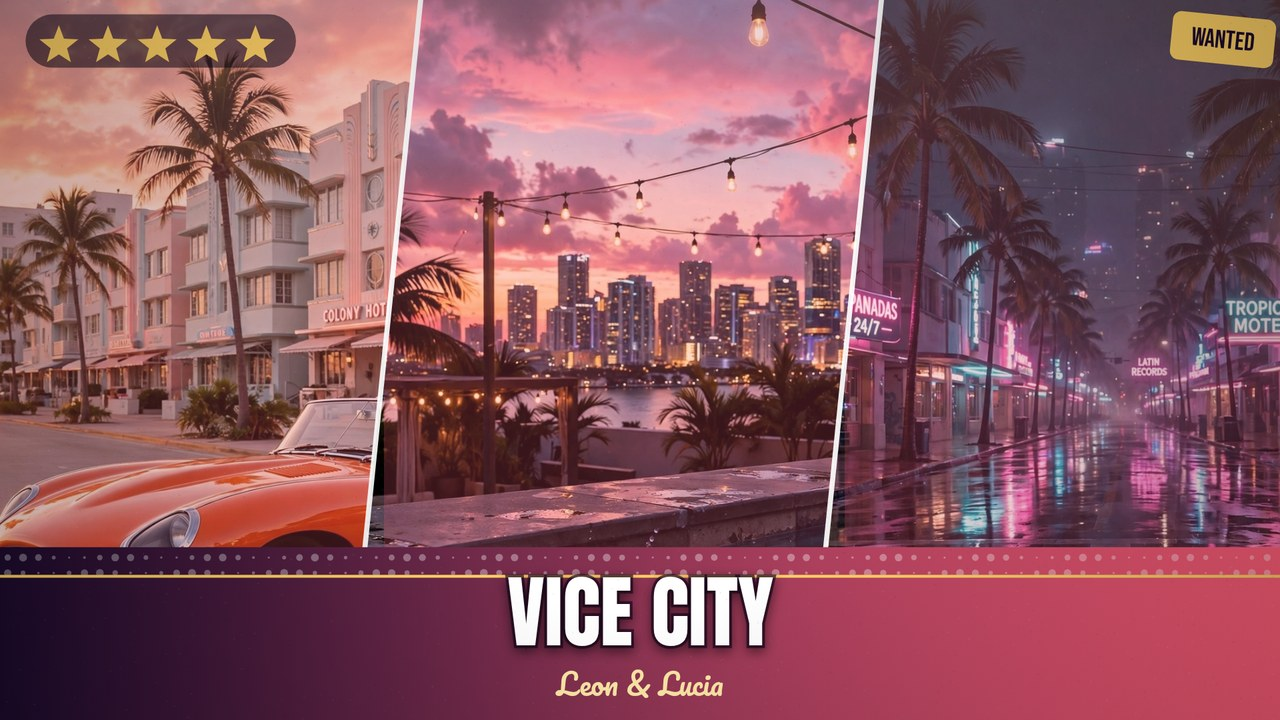
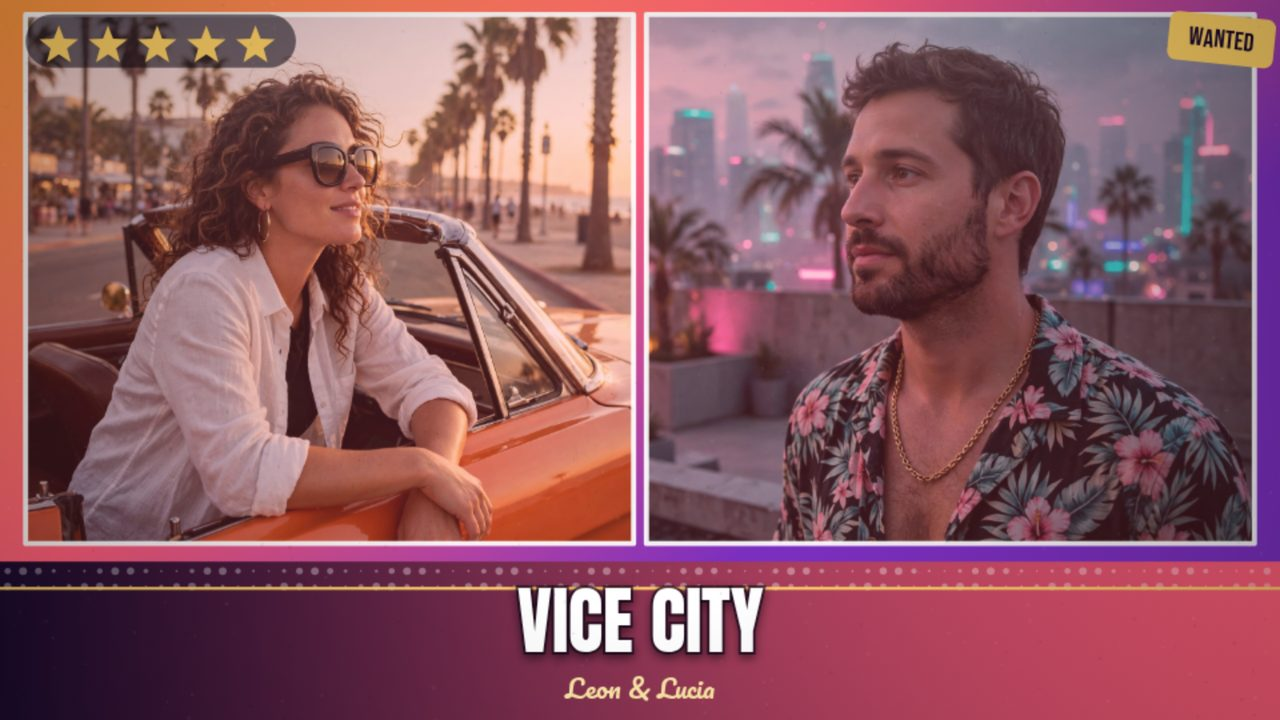
Vice Cover Studio v2: Duo layout, portrait samples, gold contrast fix

diff --git a/app/src/state.js b/app/src/state.js
@@ -6,12 +6,14 @@ import { GRADES, GRADE_IDS } from './grades.js';
 import { LAYOUTS, LAYOUT_IDS } from './layouts.js';
 import { SIZES } from './cover.js';
 
-// The four bundled sample photos (AI-made, no real people).
+// The six bundled sample photos (AI-made, no real people).
 export const SAMPLE_PHOTOS = [
   { key: 'sample:convertible', label: 'Convertible', src: 'samples/convertible.jpg' },
   { key: 'sample:rooftop', label: 'Rooftop', src: 'samples/rooftop.jpg' },
   { key: 'sample:neon', label: 'Neon Street', src: 'samples/neon.jpg' },
   { key: 'sample:pier', label: 'Pier', src: 'samples/pier.jpg' },
+  { key: 'sample:woman', label: 'Woman (Convertible)', src: 'samples/woman.jpg' },
+  { key: 'sample:man', label: 'Man (Rooftop)', src: 'samples/man.jpg' },
 ];
 
 // The cover a fresh visitor sees: diagonal bands, sunset grade, wide export.
@@ -50,7 +52,7 @@ export function cachePhoto(key, url) {
   });
 }
 
-/** Preloads the four bundled sample photos. */
+/** Preloads the six bundled sample photos. */
 export function preloadSamples() {
   const jobs = SAMPLE_PHOTOS.map((sample) => cachePhoto(sample.key, sample.src));
   return Promise.all(jobs);

diff --git a/app/src/cover.js b/app/src/cover.js
@@ -249,6 +249,7 @@ export function drawTitleBlock(ctx, box, state, grade, W, H) {
 /** Draws the star heat meter (top-left) and the badge ribbon (top-right). */
 export function drawOverlays(ctx, state, grade, W, H) {
   const stars = Math.max(0, Math.min(5, state.stars || 0));
+  const pop = grade.pop || grade.accent;
   if (stars > 0) {
     const r = Math.max(10, W * 0.016);
     const gap = r * 2.4;
@@ -262,7 +263,7 @@ export function drawOverlays(ctx, state, grade, W, H) {
     ctx.fill();
     for (let i = 0; i < 5; i++) {
       starPath(ctx, cx0 + i * gap, cy, r);
-      ctx.fillStyle = i < stars ? grade.accent : 'rgba(255,255,255,0.28)';
+      ctx.fillStyle = i < stars ? pop : 'rgba(255,255,255,0.28)';
       ctx.fill();
     }
   }
@@ -276,7 +277,7 @@ export function drawOverlays(ctx, state, grade, W, H) {
     ctx.save();
     ctx.translate(W - bw * 0.55, H * 0.055);
     ctx.rotate(0.10);
-    ctx.fillStyle = grade.accent;
+    ctx.fillStyle = pop;
     ctx.beginPath();
     ctx.roundRect(-bw / 2, -bh / 2, bw, bh, bh * 0.18);
     ctx.fill();

diff --git a/app/src/grades.js b/app/src/grades.js
@@ -4,6 +4,9 @@
 // copies Rockstar logos, artwork or fonts — every value below is our own.
 
 // A grade: sky stops, photo tint, band stops, title ink, accent, subtitle ink.
+// `pop` is the bright colour for the star meter and badge fill: it defaults to
+// the accent, but a dark accent (Palm Gold's brown) would vanish on the dark
+// pill, so that grade names a bright pop instead.
 export const GRADES = {
   // Warm dusk: orange into pink into purple.
   sunset: {
@@ -29,6 +32,7 @@ export const GRADES = {
   gold: {
     name: 'Palm Gold',
     accent: '#7a3b12',
+    pop: '#ffd166',
     title: '#fff7e0',
     sub: '#ffe9a8',
     sky: ['#ffd166', '#ff8c42', '#7a3b12'],

diff --git a/app/src/shots.js b/app/src/shots.js
@@ -8,7 +8,7 @@ import { loadFonts } from './fonts.js';
 import { panelsFor, preloadSamples } from './state.js';
 import { LAYOUTS } from './layouts.js';
 
-const SHOT_SAMPLES = ['convertible', 'rooftop', 'neon', 'pier'];
+const SHOT_SAMPLES = ['woman', 'man', 'neon', 'pier'];
 
 /** Photo keys for a scene: named samples in order, cycling to fill `count`. */
 function photoKeys(query, count) {

diff --git a/app/src/layouts.js b/app/src/layouts.js
@@ -79,6 +79,15 @@ export const LAYOUTS = {
     panels: [rect(0, 0, 1, 1)],
     title: { x: 0, y: 0.74, w: 1, h: 0.26 },
   },
+  duo: {
+    name: 'Duo',
+    count: 2,
+    panels: [
+      rect(0.02, 0.02, 0.475, 0.735),
+      rect(0.505, 0.02, 0.475, 0.735),
+    ],
+    title: { x: 0, y: 0.78, w: 1, h: 0.22 },
+  },
 };
 
 export const LAYOUT_IDS = Object.keys(LAYOUTS);

diff --git a/README.md b/README.md
@@ -12,13 +12,14 @@ cover art, exported as a PNG to share. Built for the make.fun bounty
 
 ## What it does
 
-- **6 layouts**: Four Panel, Hero + Three, Nine Panel (title in the centre
-  cell), Tilted Snaps, Diagonal Bands, Full Bleed.
+- **7 layouts**: Four Panel, Hero + Three, Nine Panel (title in the centre
+  cell), Tilted Snaps, Diagonal Bands, Full Bleed, Duo (two protagonists
+  side by side, the GTA VI key-art composition).
 - **6 colour grades**: Vice Sunset, Neon Night, Palm Gold, Ocean Drive,
   Bubblegum, Mono Heat — sunset and neon gradients, photo tints, halftone
   title bands, film grain and vignette.
-- **Any photo**: upload your own photos, or use the four bundled AI-made
-  samples. Each panel takes its own photo, or one photo can fill all panels.
+- **Any photo**: upload your own photos, or use the six bundled AI-made
+  samples, including two portraits made for the Duo layout. Each panel takes
   Drag a photo in the preview to reposition it, zoom and pan per panel, and
   edit the title, script subtitle, badge ribbon and 5-star heat meter.
 - **Fast**: one click from a sample photo to an exported PNG in 1080 × 1080,
